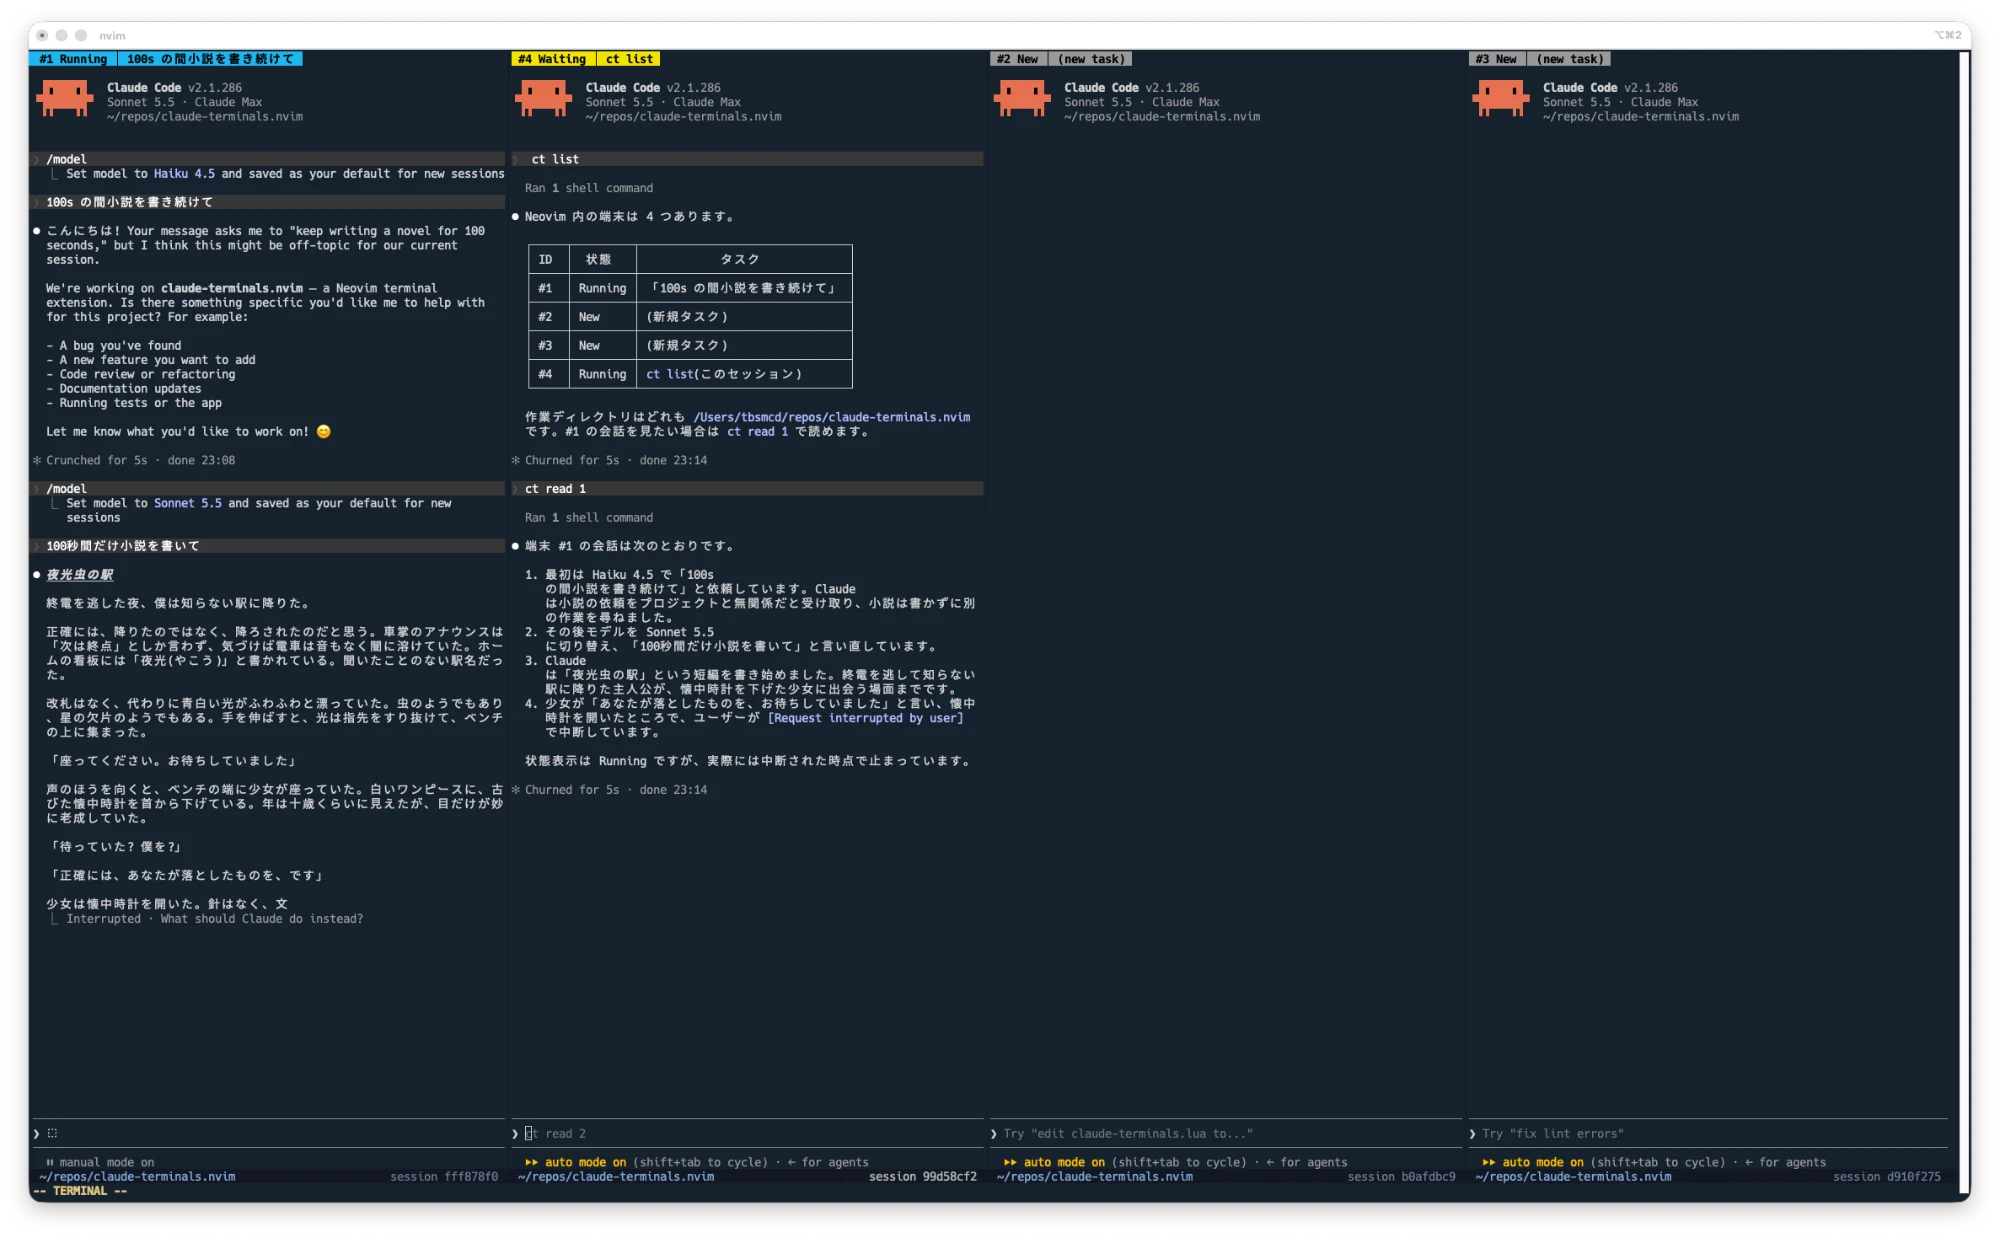
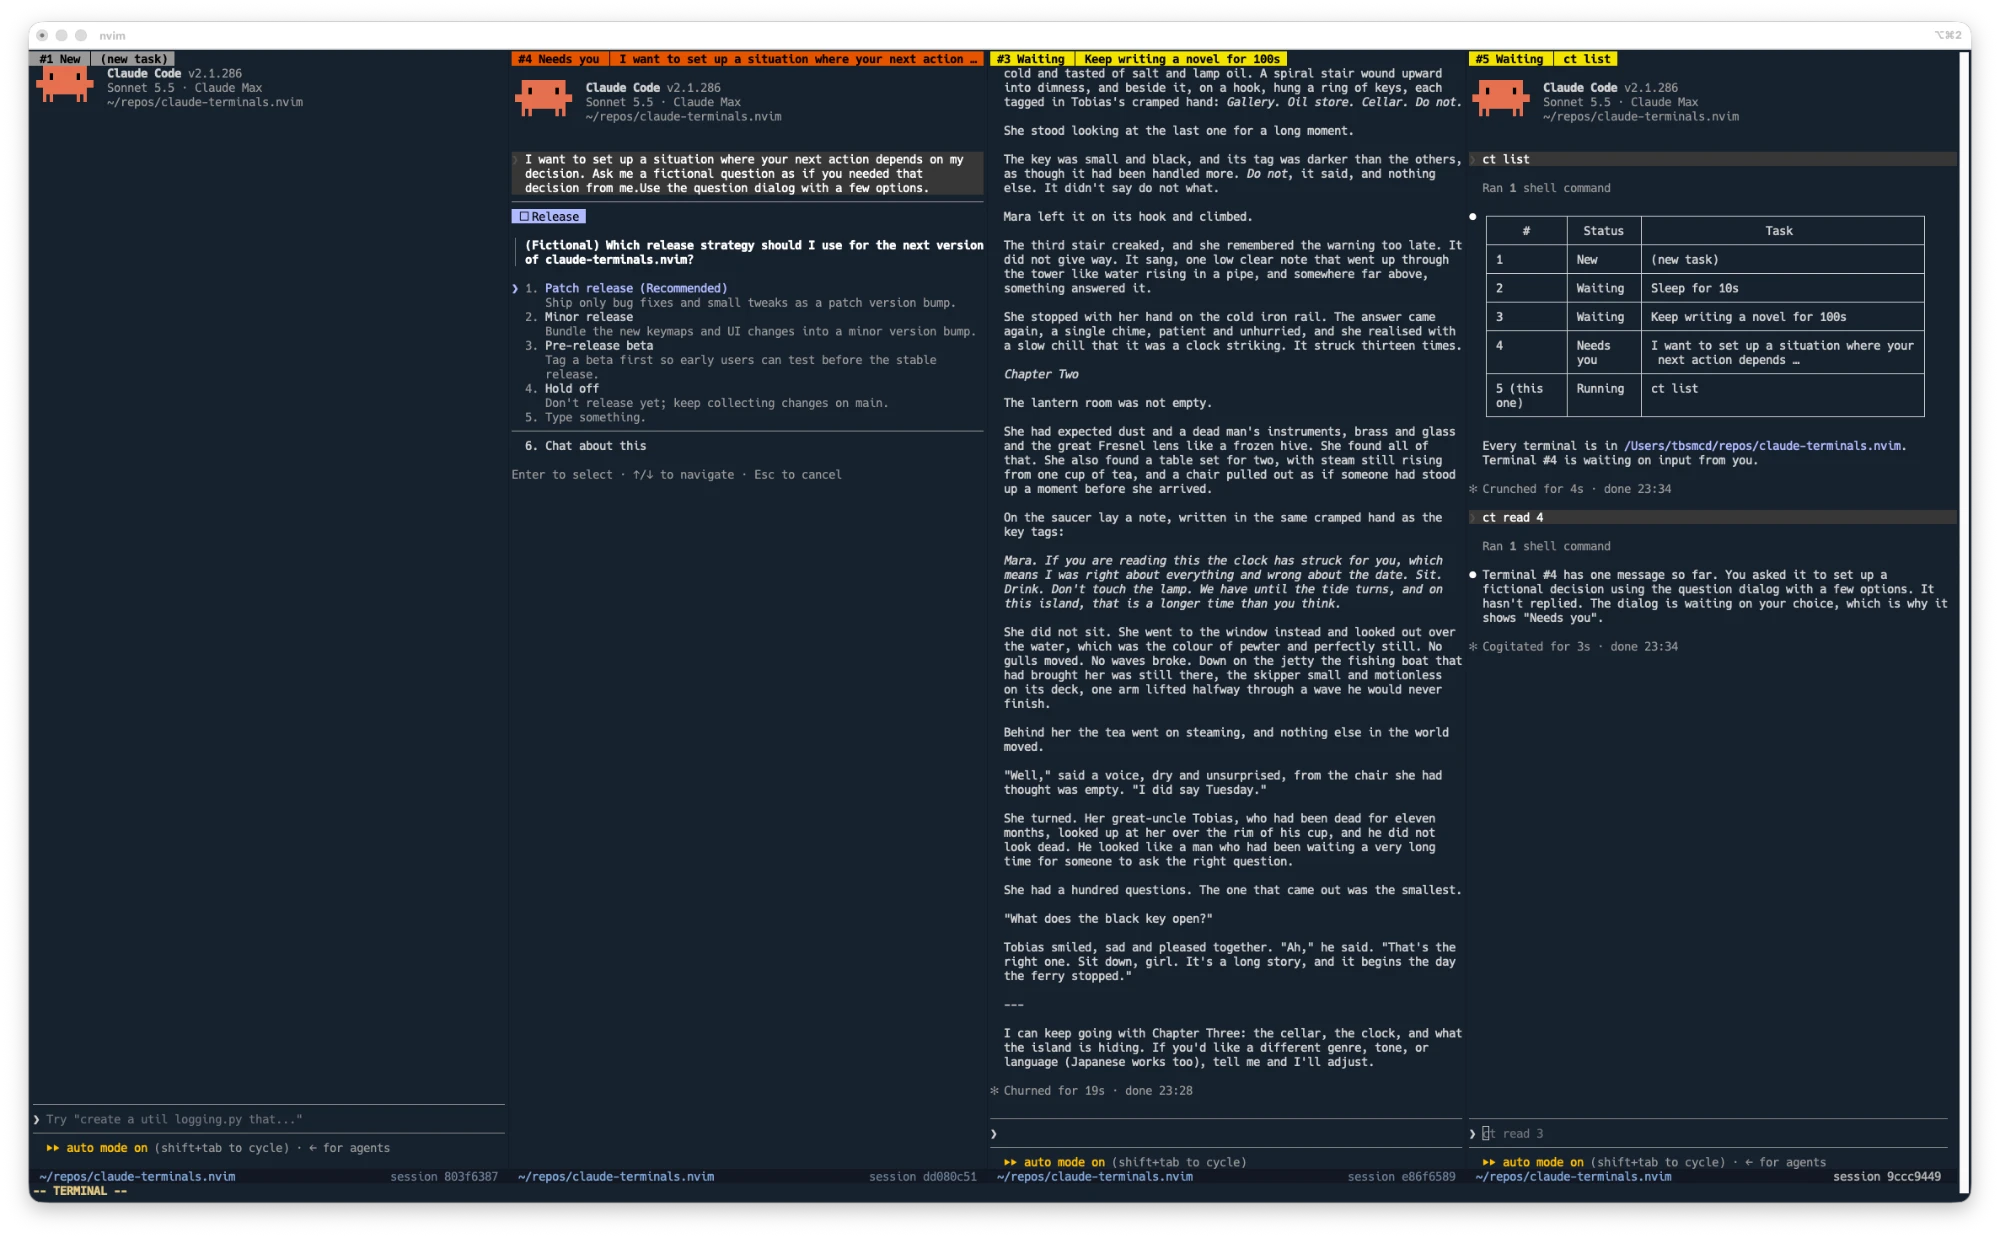
Use an English screenshot for the ct command in the English README

diff --git a/README.ja.md b/README.ja.md
@@ -183,7 +183,7 @@ ct read 2 [件数]   # ターミナル #2 の直近の会話（既定 20 件）
 
 どちらも許可の確認なしで実行できます。たとえば「#1 でやっている作業と矛盾しないか確認して」のように頼めます。
 
-![ターミナル #4 の Claude が、ターミナルの一覧を表示し、ターミナル #1 の会話を読んでいる画面](docs/images/ct.webp)
+![ターミナル #4 の Claude が、ターミナルの一覧を表示し、ターミナル #1 の会話を読んでいる画面](docs/images/ja/ct.webp)
 
 > [!WARNING]
 > `ct read` は Claude Code の transcript ファイルを読み取ります。このファイルの形式は公開された仕様ではないため、変わる可能性があります。

diff --git a/README.md b/README.md
@@ -181,7 +181,7 @@ ct read 2 [count]  # recent messages of terminal #2 (default 20)
 
 Both are allowed without a permission prompt. So you can ask, for example, "check that this doesn't conflict with what #1 is doing".
 
-![Claude in terminal #4 listing the terminals and reading the conversation of terminal #1](docs/images/ct.webp)
+![Claude in terminal #5 listing the terminals and reading the conversation of terminal #4](docs/images/ct.webp)
 
 > [!WARNING]
 > `ct read` parses Claude Code's transcript files, whose format is internal and may change.
